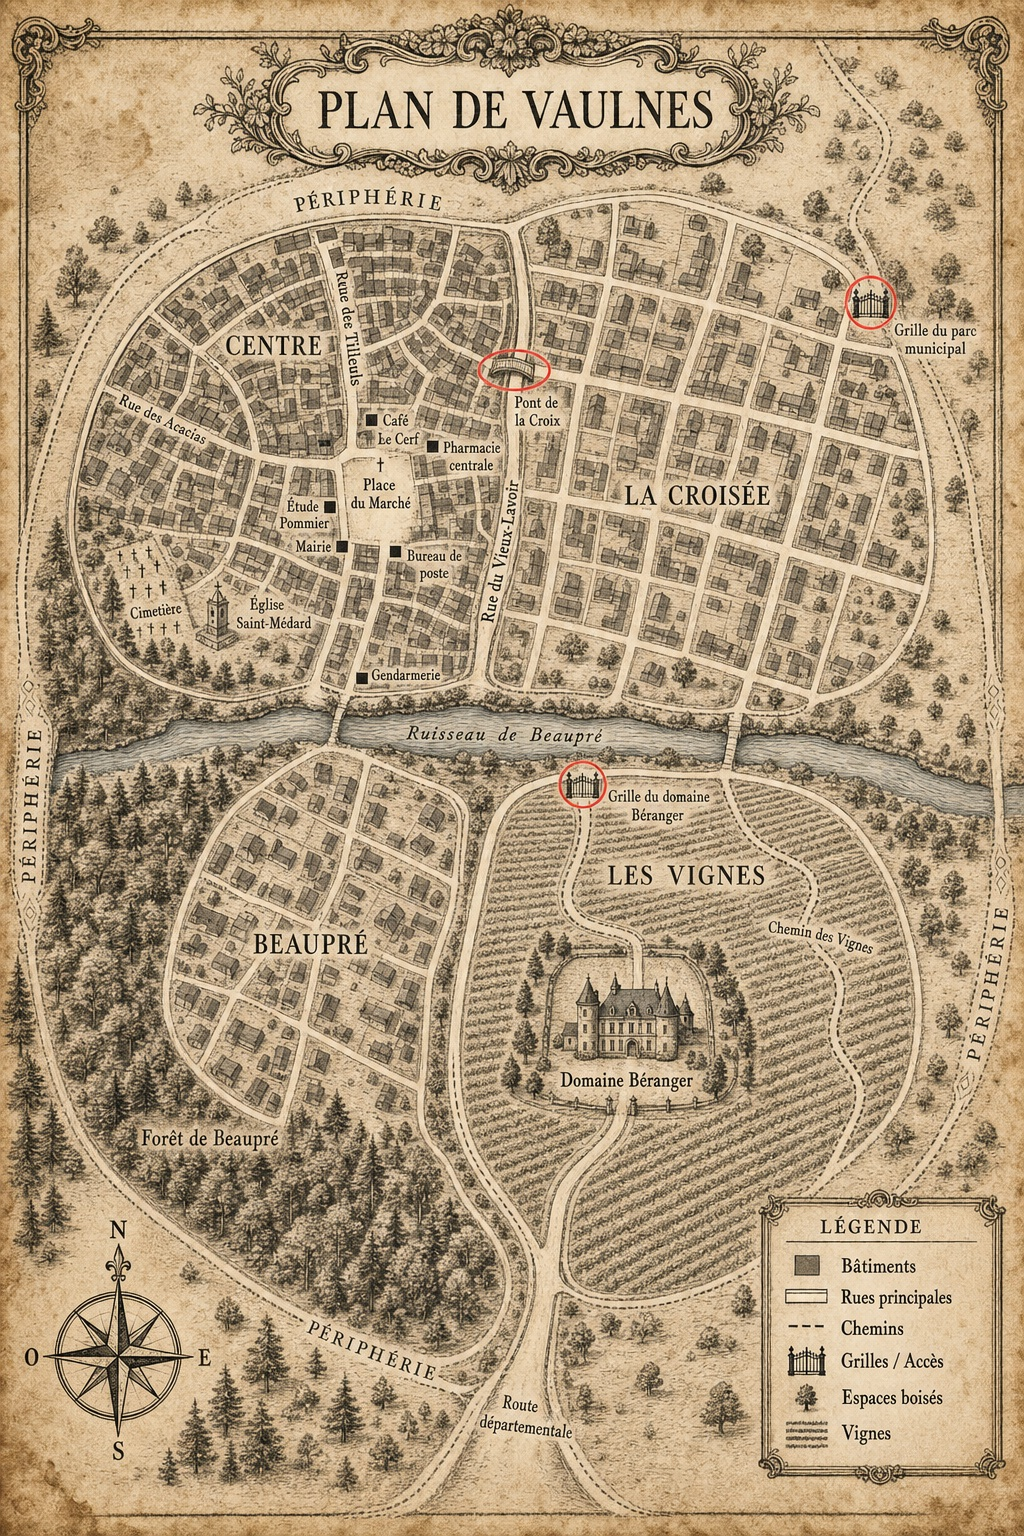
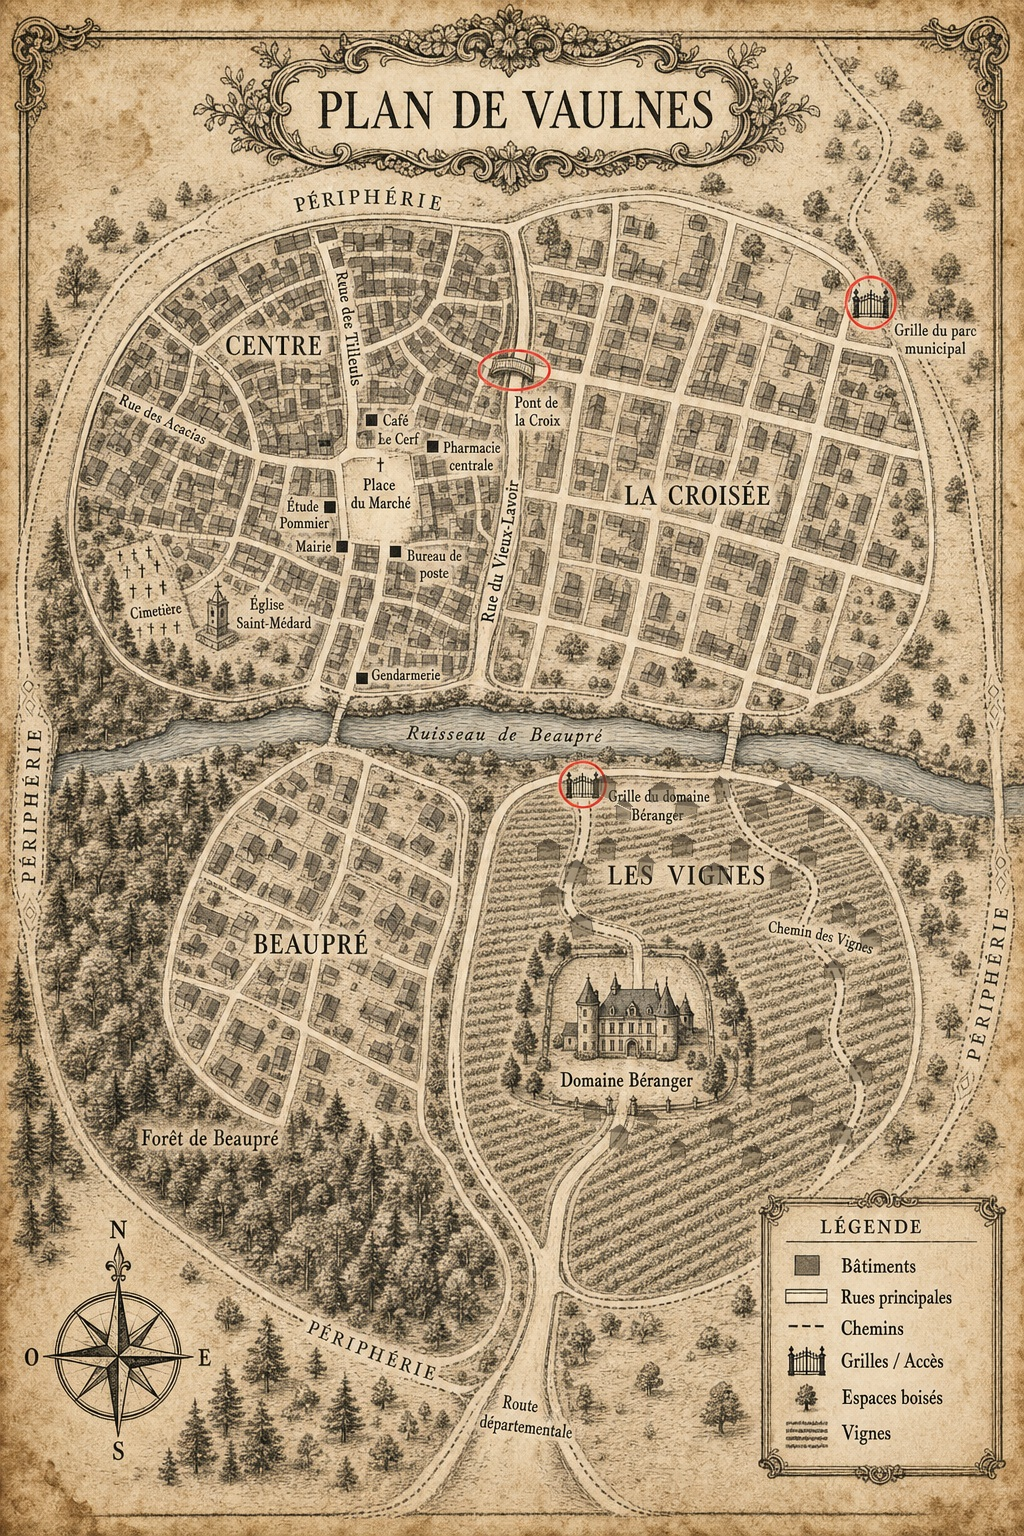
Strengthen motive and clarify Les Vignes

diff --git a/index.html b/index.html
@@ -40,7 +40,7 @@
         </article>
         <article>
           <span>Lieu</span>
-          <p>La Croisée : le retour observé par le Pont de la Croix élimine Les Vignes et confirme son quartier.</p>
+          <p>La Croisée : le retour observé par le Pont de la Croix élimine Les Vignes, quartier habité autour du domaine Béranger, et confirme son quartier.</p>
         </article>
         <article>
           <span>Dernière trace</span>
@@ -51,9 +51,10 @@
 
     <section>
       <h2>Le mobile</h2>
-      <p>Reverbel n'a pas tué Sarah parce qu'elle l'avait simplement reconnu. Il l'a tuée parce qu'elle était sur le point de rendre lisible ce qu'il avait réussi à garder diffus : son lien avec la pharmacie centrale, les circuits de fournisseurs, les conversations du Cercle de l'Hexagone et les pressions exercées dans le petit monde des notables de Vaulnes.</p>
-      <p>Sarah avait commencé à recouper les dossiers de la pharmacie, les passages au Cerf, les enregistrements et les noms qui revenaient trop souvent. Son rendez-vous prévu chez Maître Pommier le 26 octobre 2025 devait mettre son dossier à l'abri.</p>
-      <p>L'audio du Cercle montre que Pommier refuse de “calmer” Sarah pour Reverbel. Pour Reverbel, ce rendez-vous devient donc le point de non-retour : une fois le dossier signé et déposé, Sarah ne peut plus être réduite au silence sans danger pour lui.</p>
+      <p>Reverbel n'a pas tué Sarah parce qu'elle l'avait simplement reconnu. Il l'a tuée parce qu'elle avait reconstitué un dossier pénal : fausses ordonnances, détournement de médicaments contrôlés, livraisons maquillées dans les comptes de la pharmacie centrale et noms de patients âgés utilisés comme couvertures.</p>
+      <p>Reverbel servait de relais entre la pharmacie, certains fournisseurs et le Cercle de l'Hexagone. Tant que les anomalies restaient dispersées, il pouvait les faire passer pour des erreurs de stock ou des arrangements locaux. Sarah, elle, avait réuni les dates, les noms, les bons de livraison, les enregistrements du Cerf et les pages du registre. Ce n'était plus une rumeur : c'était une preuve.</p>
+      <p>Le risque pour Reverbel n'était donc pas seulement la honte. C'était la prison, la ruine, et la réouverture d'au moins un décès classé trop vite comme accident domestique après une délivrance frauduleuse de médicaments. Le rendez-vous de Sarah chez Maître Pommier, prévu le 26 octobre 2025, devait mettre le dossier à l'abri. Pour Reverbel, c'était le point de non-retour : après ce dépôt, il ne pouvait plus l'étouffer.</p>
+      <p>L'audio du Cercle confirme la panique : Pommier refuse de “calmer” Sarah pour lui. Reverbel comprend alors qu'il ne maîtrise plus le dossier. Il décide de la faire taire avant qu'elle ne transforme ses notes en accusation officielle.</p>
     </section>
 
     <section>
@@ -73,7 +74,7 @@
       <h2>La carte confirme le trajet</h2>
       <figure>
         <img class="map" src="img/plan-vaulnes.jpg" alt="Plan de Vaulnes">
-        <figcaption>Le Pont de la Croix relie le Centre à La Croisée. Si le tueur était rentré aux Vignes, il aurait pris la route départementale et la grille du domaine Béranger.</figcaption>
+        <figcaption>Le quartier des Vignes n'est pas un simple champ : c'est un secteur cadastral habité autour du domaine Béranger, avec hameaux et maisons de service. Le Pont de la Croix relie le Centre à La Croisée ; si le tueur était rentré aux Vignes, il aurait pris la route départementale et la grille du domaine Béranger.</figcaption>
       </figure>
     </section>
 
